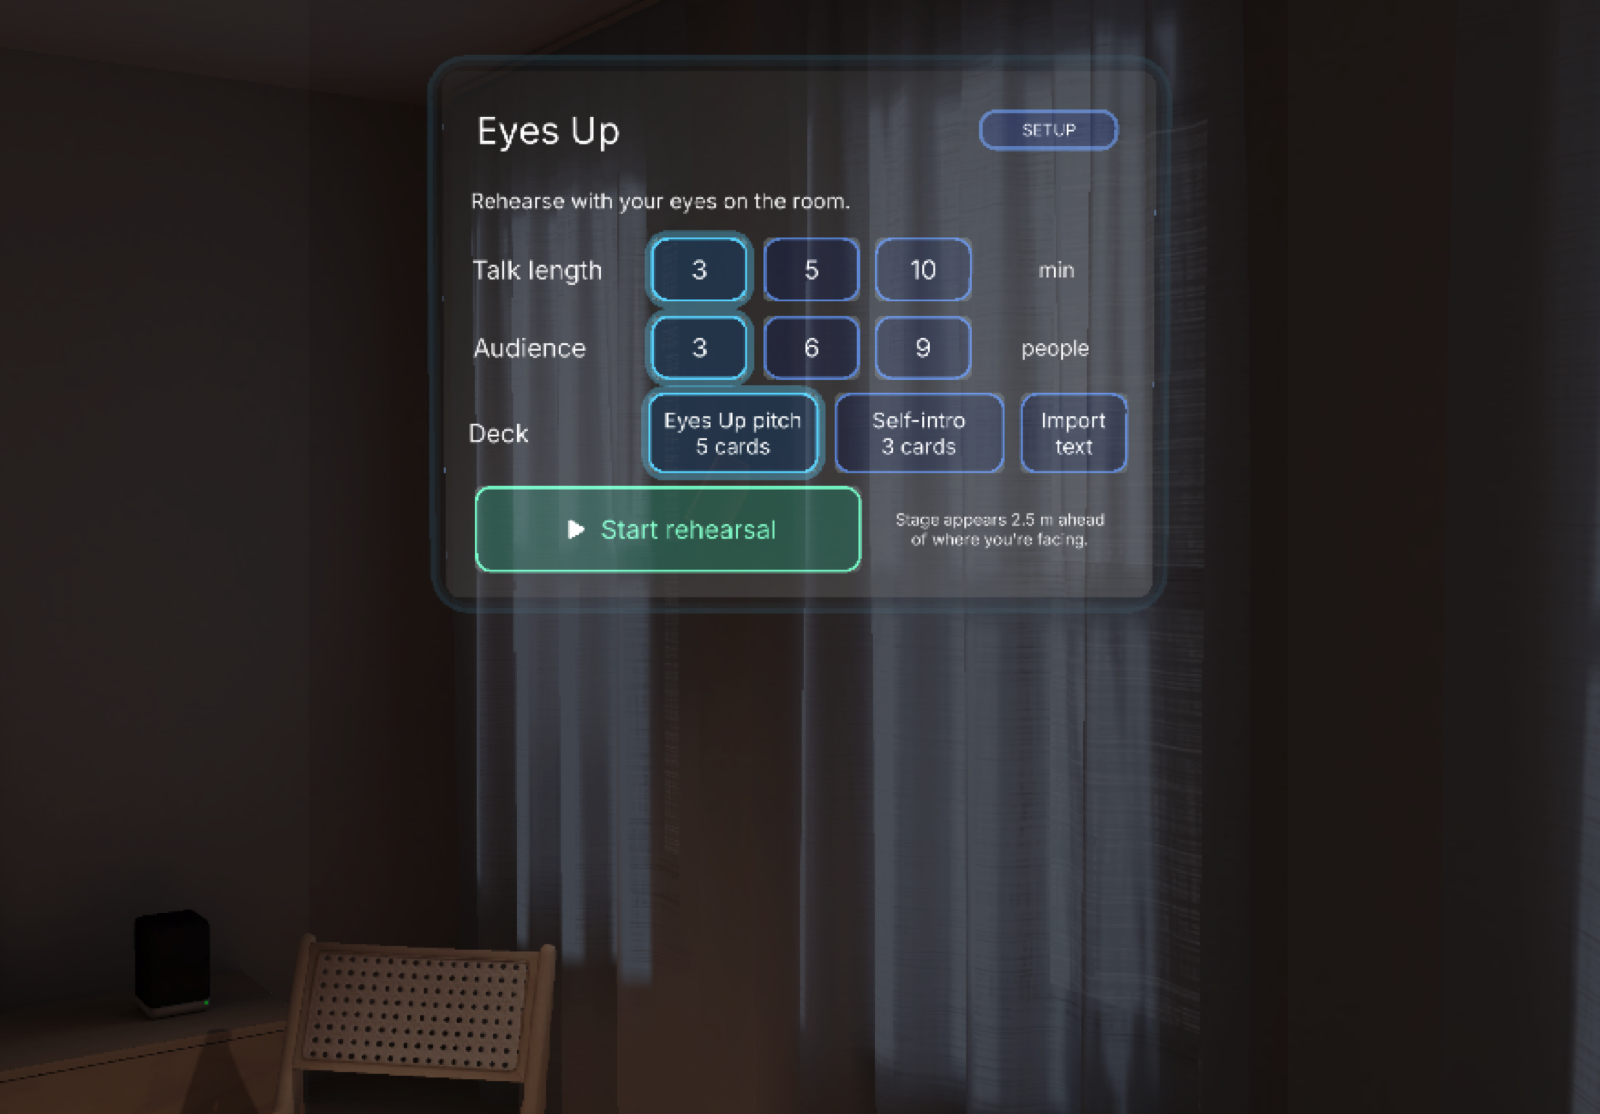
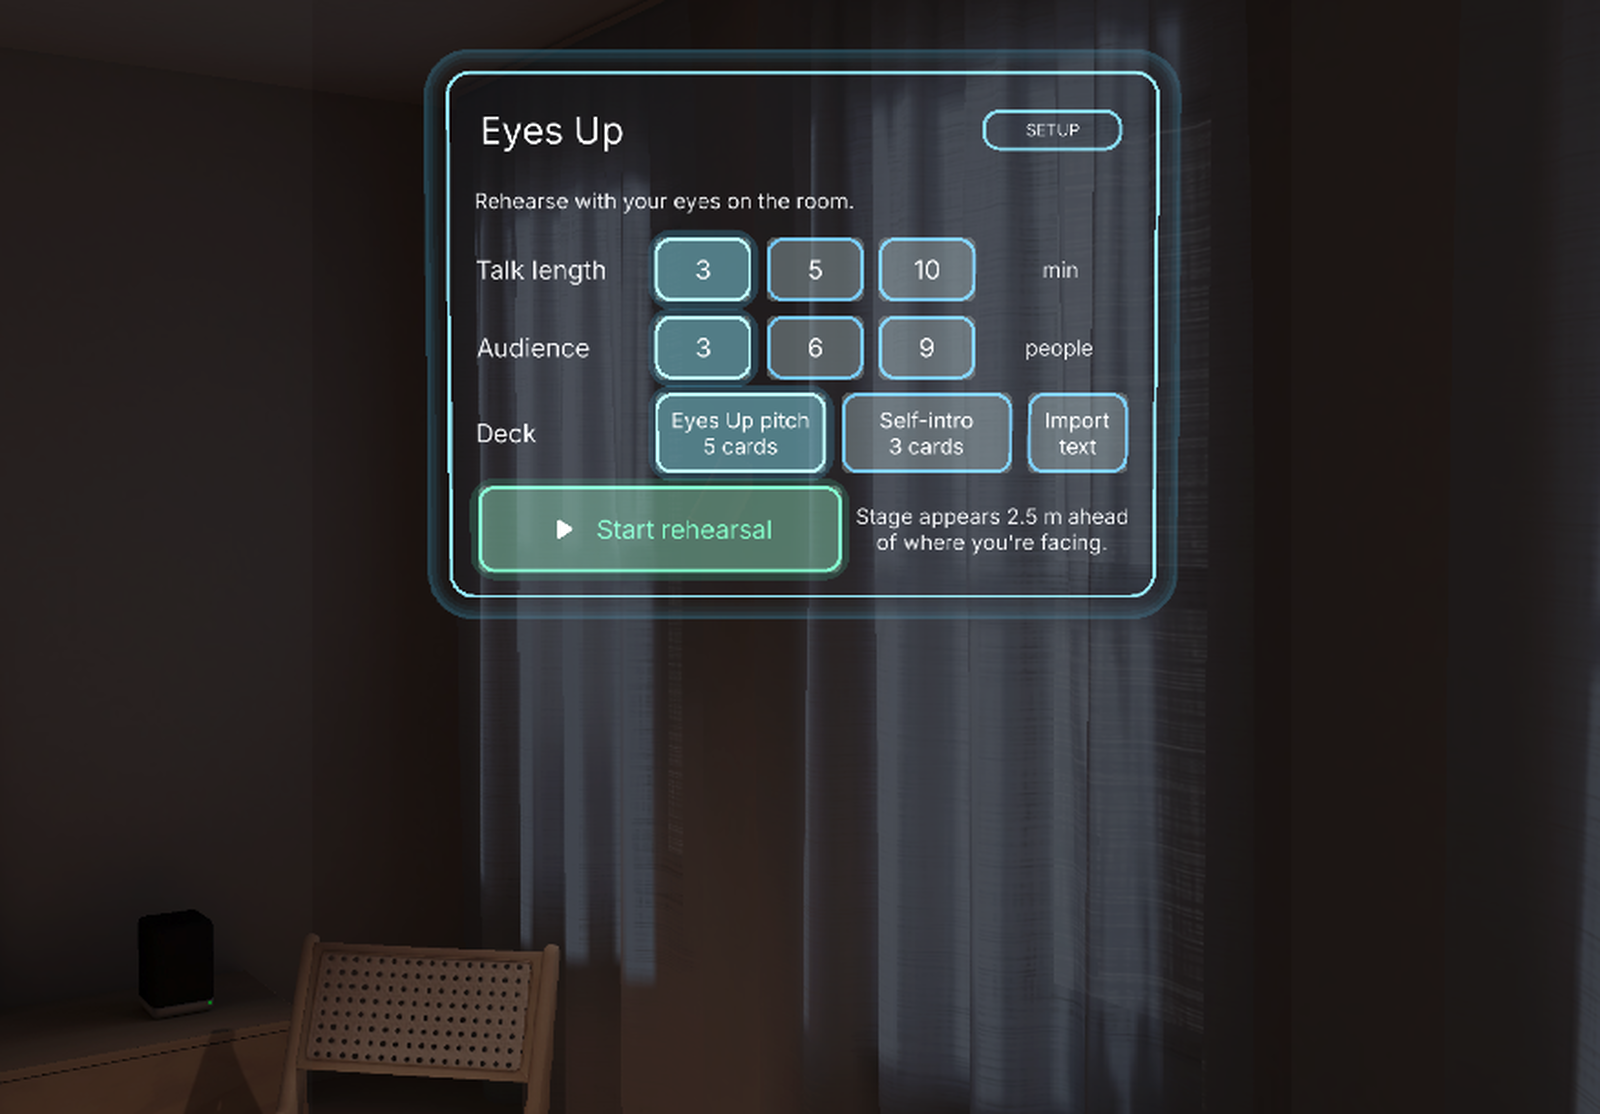
feat: redesign stills - every devpost screenshot and walkthrough still retaken from live captures of the new look, gallery images rebuilt (hero, process, slump-perk, run compare, CLAD/MCP, glasses scale)

diff --git a/scripts/gallery/process-image.html b/scripts/gallery/process-image.html
@@ -32,12 +32,12 @@ h1{margin:0;font-size:42px;letter-spacing:-.01em}
 </style>
 <div class="wrap">
 <h1>Eyes Up: process at a glance</h1>
-<div class="sub">Three fixes found by looking at the Interactive Preview, checked by 10 LEAF scenarios and 183 tests.</div>
+<div class="sub">Three fixes found by looking at the Interactive Preview, checked by 10 LEAF scenarios and 194 tests.</div>
 <div class="row r1">
  <div class="card"><div class="k">Fix 1 &middot; Halo</div><div class="t">Pale halo washed out, saturated cyan reads</div>
   <div class="pair">
    <div class="im" style="background-image:url('before-halo-pale.png');background-size:662px 1953px;background-position:-348px -838px"><span class="cap">Before: pale disc</span></div>
-   <div class="im" style="background-image:url('halo-cyan-prev.png');background-size:1047px auto;background-position:-534px -226px"><span class="cap">After: saturated cyan</span></div>
+   <div class="im" style="background-image:url('../../devpost/screenshots/02-audience-lit-halo.png');background-size:1000px auto;background-position:-556px -147px"><span class="cap">After: saturated cyan</span></div>
   </div>
   <div class="note">Additive displays punish pale colors. The lit state keeps the red channel low.</div></div>
  <div class="card"><div class="k">Fix 2 &middot; Gaze hit area</div><div class="t">Cone replaced by the real pill rectangle</div>
@@ -55,17 +55,17 @@ h1{margin:0;font-size:42px;letter-spacing:-.01em}
  <div class="card"><div class="k">Fix 3 &middot; Game layer</div><div class="t">A jury note became the game layer</div>
   <div class="pair">
    <div class="im" style="background-image:url('halo-cyan-prev.png');background-size:620px auto;background-position:-175px -139px"><span class="cap">Before: grey on grey</span></div>
-   <div class="im" style="background-image:url('../../devpost/screenshots/10-engagement-slump.png');background-size:430px auto;background-position:-95px -12px"><span class="cap">After: slump, meter, grade</span></div>
+   <div class="im" style="background-image:url('../../devpost/screenshots/10-engagement-slump.png');background-size:600px auto;background-position:-160px -85px"><span class="cap">After: slump, meter, grade</span></div>
   </div>
   <div class="note">Our own review: no emotional hook. Members now slump when ignored and perk up when looked at.</div></div>
 </div>
 <div class="row r2">
  <div class="card checks2"><div class="k">Checks &middot; logic in Node, Lens in LEAF</div>
   <div class="c"><span class="big">10 / 10</span><span class="note">LEAF scenarios PASSED in the Interactive Preview</span></div>
-  <div class="c"><span class="big2">183</span><span class="note">unit and integration tests, typecheck and lint clean</span></div></div>
+  <div class="c"><span class="big2">194</span><span class="note">unit and integration tests, typecheck and lint clean</span></div></div>
  <div class="card"><div class="k">Learning loop &middot; Run 1 vs Run 2 (scripted gaze, illustrative, not a user study)</div>
   <table class="runs"><tr><th></th><th>Grade</th><th>Balance</th><th>Left / Center / Right</th><th>Longest look-away</th><th>Tip shown</th></tr>
-   <tr><td>Run 1</td><td class="g c1">C &middot; 39</td><td>46</td><td>0 / 31 / 69 %</td><td>28 s left</td><td>look left more</td></tr>
+   <tr><td>Run 1</td><td class="g c1">C &middot; 39</td><td>46</td><td>0 / 30 / 70 %</td><td>29 s left</td><td>look left more</td></tr>
    <tr><td>Run 2</td><td class="g a1">A &middot; 84</td><td>89</td><td>41 / 26 / 33 %</td><td>12 s right</td><td>look at the center more</td></tr></table>
   <div class="note">Real values from LEAF scenario <b>capture_loop</b> in the Interactive Preview: Run 1 ignores the left, Run 2 follows the tip. Not a measure of learning.</div></div>
 </div>

diff --git a/scripts/gallery/clad-mcp.html b/scripts/gallery/clad-mcp.html
@@ -20,7 +20,7 @@ code{font-family:ui-monospace,Menlo,monospace;font-size:18px;background:#eef0fa;
  <h1>Built with CLAD and the Lens Studio MCP</h1>
  <div class="sub">The logic is tested in Node. The Lens is built, driven and looked at through MCP tools.</div>
  <div class="arch">
-  <div class="node"><div class="k">1 &middot; Core</div><div class="n">Pure TypeScript</div><div class="d">State machine, gaze, engagement, score. 183 tests, no Lens Studio needed.</div></div>
+  <div class="node"><div class="k">1 &middot; Core</div><div class="n">Pure TypeScript</div><div class="d">State machine, gaze, engagement, score. 194 tests, no Lens Studio needed.</div></div>
   <div class="node"><div class="k">2 &middot; Lens</div><div class="n">Lens scripts</div><div class="d">UIKit panels, audience rig, cue card, podium. Thin adapters over the core.</div></div>
   <div class="node"><div class="k">3 &middot; MCP</div><div class="n">Lens Studio MCP</div><div class="d">Compile, refresh Preview, move the camera, run LEAF scenarios, read logs.</div></div>
   <div class="node"><div class="k">4 &middot; LEAF</div><div class="n">10 scenarios</div><div class="d">Scripted gaze and pinches against the real Lens, one at a time.</div></div>
@@ -32,6 +32,6 @@ code{font-family:ui-monospace,Menlo,monospace;font-size:18px;background:#eef0fa;
   <div class="step"><div class="num">3</div><div><div class="n">LEAF drives the Lens</div><div class="d"><code>run_leaf_scenario</code> looks at a member, pinches a button, waits for a nudge, reads the Summary.</div></div></div>
   <div class="step"><div class="num">4</div><div><div class="n">We look, then fix</div><div class="d">Pale halo, cone hit area, grey-on-grey audience, clipped Summary: all found in captures (see the process card).</div></div></div>
  </div>
- <div class="log"><span class="l">Lens Studio log, Interactive Preview</span><br>[capture_loop] run1 grade C score 39 balance 46 room 76% zones L0/C31/R69 longest 28 s left at 0:00 nudges 3<br>[capture_loop] run2 grade A score 84 balance 89 room 91% zones L41/C26/R33 longest 12 s right at 0:00 nudges 1<br><span class="ok">PASSED: capture_game</span></div>
+ <div class="log"><span class="l">Lens Studio log, Interactive Preview</span><br>[capture_loop] run1 grade C score 39 balance 46 room 76% zones L0/C30/R70 longest 29 s left at 0:00 nudges 3<br>[capture_loop] run2 grade A score 84 balance 89 room 91% zones L41/C26/R33 longest 12 s right at 0:00 nudges 1<br><span class="ok">PASSED: capture_game</span></div>
  <div class="foot">Preview only, gaze driven by the LEAF harness, not tested on a Spectacles device. Log lines are copied from the Lens Studio log of the capture run.</div>
 </div>

diff --git a/scripts/gallery/glasses-scale.html b/scripts/gallery/glasses-scale.html
@@ -26,7 +26,7 @@ h1{font-size:46px}
  </div>
  <div class="rules">
   <div class="card rule"><div class="th" style="background-image:url('../../devpost/screenshots/04-cue-card.png')"></div><div><div class="rt"><span class="n">1</span>Placement</div><div class="rd">The stage stands 2.5 m ahead and the floor 1.5 m below your eyes. Three members sit 42 cm apart so the whole room fits the narrow view; the cue card floats 10 cm above their heads.</div><div class="rv">Seen in: the frame above, <code>04-cue-card</code></div></div></div>
-  <div class="card rule"><div class="th" style="background-image:url('../../devpost/screenshots/05-podium.png')"></div><div><div class="rt"><span class="n">2</span>Targets of 3 cm or larger</div><div class="rd">Gaze is a head ray, so every target is generous: the smallest pinch button is 7.2 x 3.8 cm, the cue tag is 12 cm tall and hit-tested on its real rectangle plus 1.5 degrees.</div><div class="rv">Seen in: <code>05-podium</code>, <code>06-summary</code></div></div></div>
+  <div class="card rule"><div class="th" style="background-image:url('../../devpost/screenshots/05-podium.png')"></div><div><div class="rt"><span class="n">2</span>Targets of 3 cm or larger</div><div class="rd">Gaze is a head ray, so every target is generous: the smallest pinch button is 6.2 x 3.8 cm, the podium is 30 cm wide so it fits the 32 degree view at 55 cm, the cue tag is 12 cm tall and hit-tested on its real rectangle plus 1.5 degrees.</div><div class="rv">Seen in: <code>05-podium</code>, <code>06-summary</code></div></div></div>
   <div class="card rule"><div class="th" style="background-image:url('../../devpost/screenshots/03-nudge-chevron.png')"></div><div><div class="rt"><span class="n">3</span>Show only when needed</div><div class="rd">The podium appears when you look down 15 degrees. The cue card shrinks to a tag after 4 s. The chevron shows for 3 s, only after you ignored a side for 8 s.</div><div class="rv">Seen in: <code>03-nudge-chevron</code>, <code>04-cue-card</code>, <code>05-podium</code></div></div></div>
  </div>
  <div class="foot">Plan is drawn to scale from the Lens settings (2.5 m arc, 42 cm spacing); the view width is the measured Interactive Preview viewport. Preview only, gaze driven by the LEAF harness, not tested on a Spectacles device.</div>

diff --git a/scripts/gallery/slump-perk.html b/scripts/gallery/slump-perk.html
@@ -12,10 +12,10 @@
  <h1>Ignore them: they slump. Look at one: it perks up.</h1>
  <div class="sub">Same room, same three members, a few seconds apart. The room meter follows.</div>
  <div class="row">
-  <div class="card"><div class="im" style="background-image:url('../../devpost/screenshots/10-engagement-slump.png')"><span class="cap">Neglect</span><span class="arrowtag" style="left:40px;top:215px">&#8595; head sinks and tilts, zzz</span><span class="arrowtag" style="left:48px;top:520px">phone glow &#8594;</span><span class="badge amber" style="color:#d6453b">Room 40 %</span></div>
+  <div class="card"><div class="im" style="background-image:url('../../devpost/screenshots/10-engagement-slump.png')"><span class="cap">Neglect</span><span class="arrowtag" style="left:20px;top:205px">&#8595; head sinks and tilts, zzz</span><span class="arrowtag" style="left:8px;top:520px">phone glow &#8594;</span><span class="badge amber" style="color:#d6453b">Room 43 %</span></div>
    <div class="k" style="margin-top:14px">Two members ignored</div><div class="t">Colour drains, the lit one stands out</div></div>
   <div class="mid">&rarr;</div>
-  <div class="card"><div class="im" style="background-image:url('../../devpost/screenshots/11-perk-up.png')"><span class="cap">Eyes up</span><span class="arrowtag" style="left:300px;top:395px">&#8593; cyan ring, head lifts</span><span class="badge cy">Room 89 %</span></div>
+  <div class="card"><div class="im" style="background-image:url('../../devpost/screenshots/11-perk-up.png')"><span class="cap">Eyes up</span><span class="arrowtag" style="left:300px;top:395px">&#8593; cyan ring, head lifts</span><span class="badge cy">Room 87 %</span></div>
    <div class="k" style="margin-top:14px">You look at them</div><div class="t">A ring pulse, the head lifts, the meter climbs</div></div>
  </div>
  <div class="foot">Lens Studio 5.24.1 Interactive Preview captures. Screenshot 11 was taken with the 0.7 s burst stretched to 3 s so the ring could be photographed. Preview only, gaze driven by the LEAF harness, not tested on a Spectacles device.</div>

diff --git a/scripts/gallery/compare.html b/scripts/gallery/compare.html
@@ -14,7 +14,7 @@
  <div class="sub">Run 1 ignores the left and gets a C. Run 2 follows the tip and gets an A.</div>
  <div class="row">
   <div class="card"><div class="im" style="background-image:url('src/run1-summary.png');background-position:-253px -59px;background-size:1253px 873px"><span class="cap">Run 1</span></div>
-   <div class="k" style="margin-top:14px">Stares right, ignores the left</div><div class="t"><span class="g1">C &middot; 39</span> &nbsp;balance 46 &nbsp;L / C / R 0 / 31 / 69 %</div><div class="tip">Tip: <span>"Next time, look left more."</span></div></div>
+   <div class="k" style="margin-top:14px">Stares right, ignores the left</div><div class="t"><span class="g1">C &middot; 39</span> &nbsp;balance 46 &nbsp;L / C / R 0 / 30 / 70 %</div><div class="tip">Tip: <span>"Next time, look left more."</span></div></div>
   <div class="mid">press<b>&rarr;</b>Again</div>
   <div class="card"><div class="im" style="background-image:url('src/run2-summary.png');background-position:-253px -59px;background-size:1253px 873px"><span class="cap">Run 2</span></div>
    <div class="k" style="margin-top:14px">Follows the tip, sweeps the room</div><div class="t"><span class="g2">A &middot; 84</span> &nbsp;balance 89 &nbsp;L / C / R 41 / 26 / 33 %</div><div class="tip">New best (was 39). Tip: <span>"look at the center more."</span></div></div>
